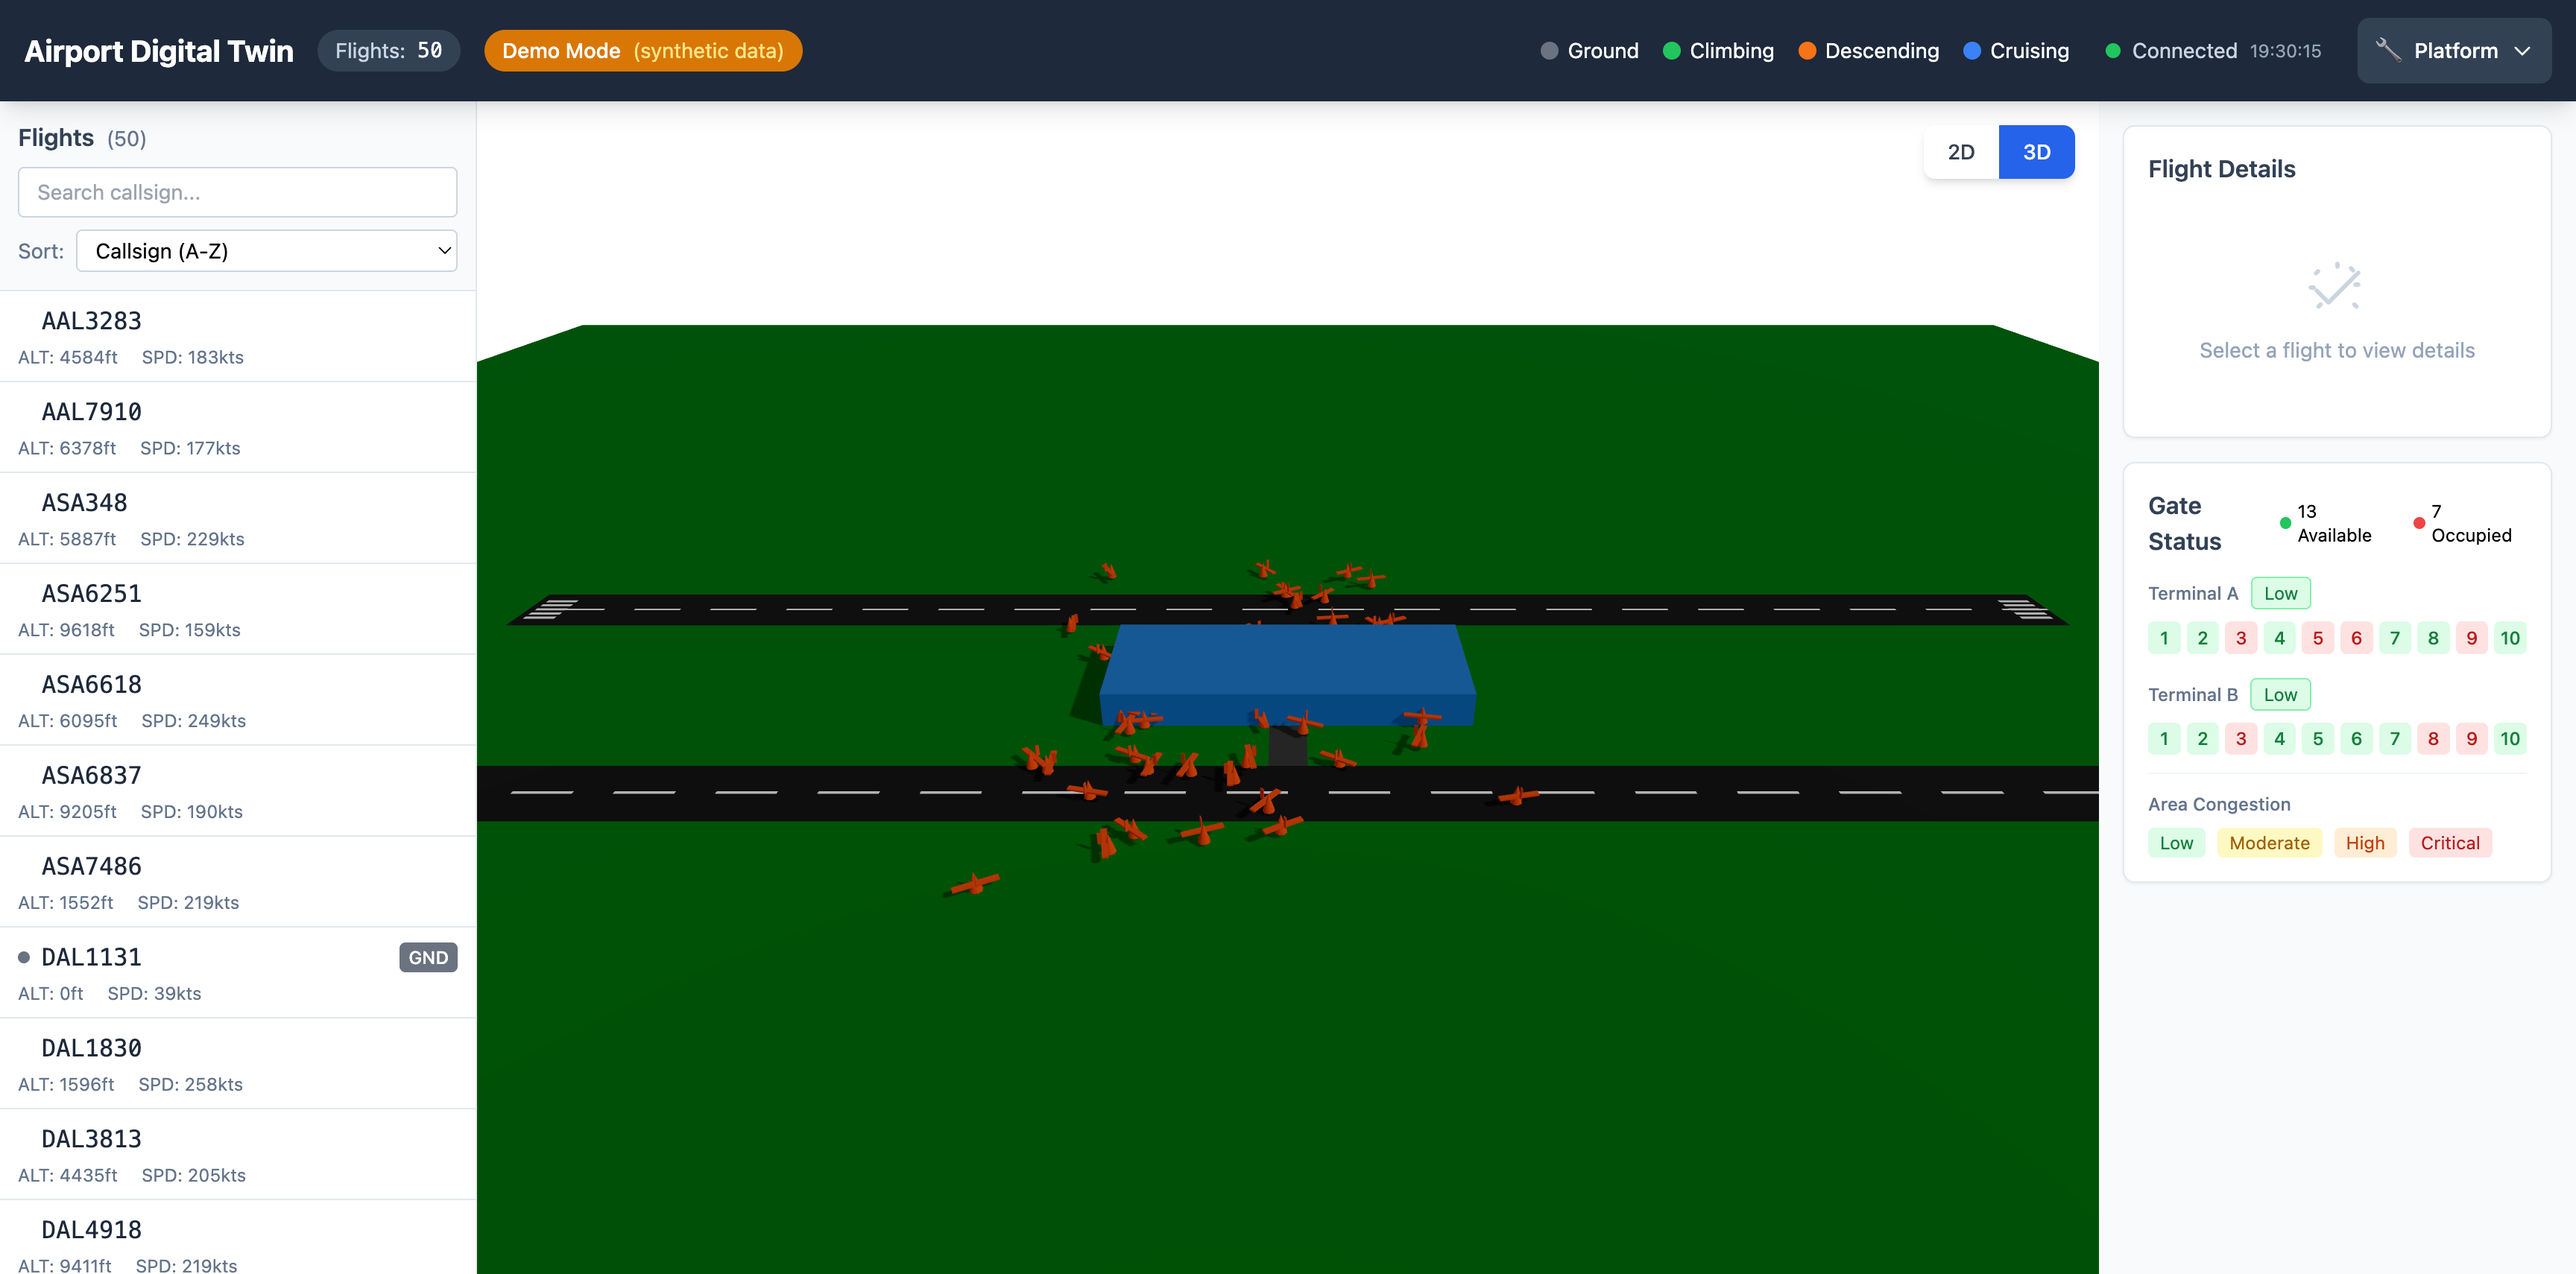
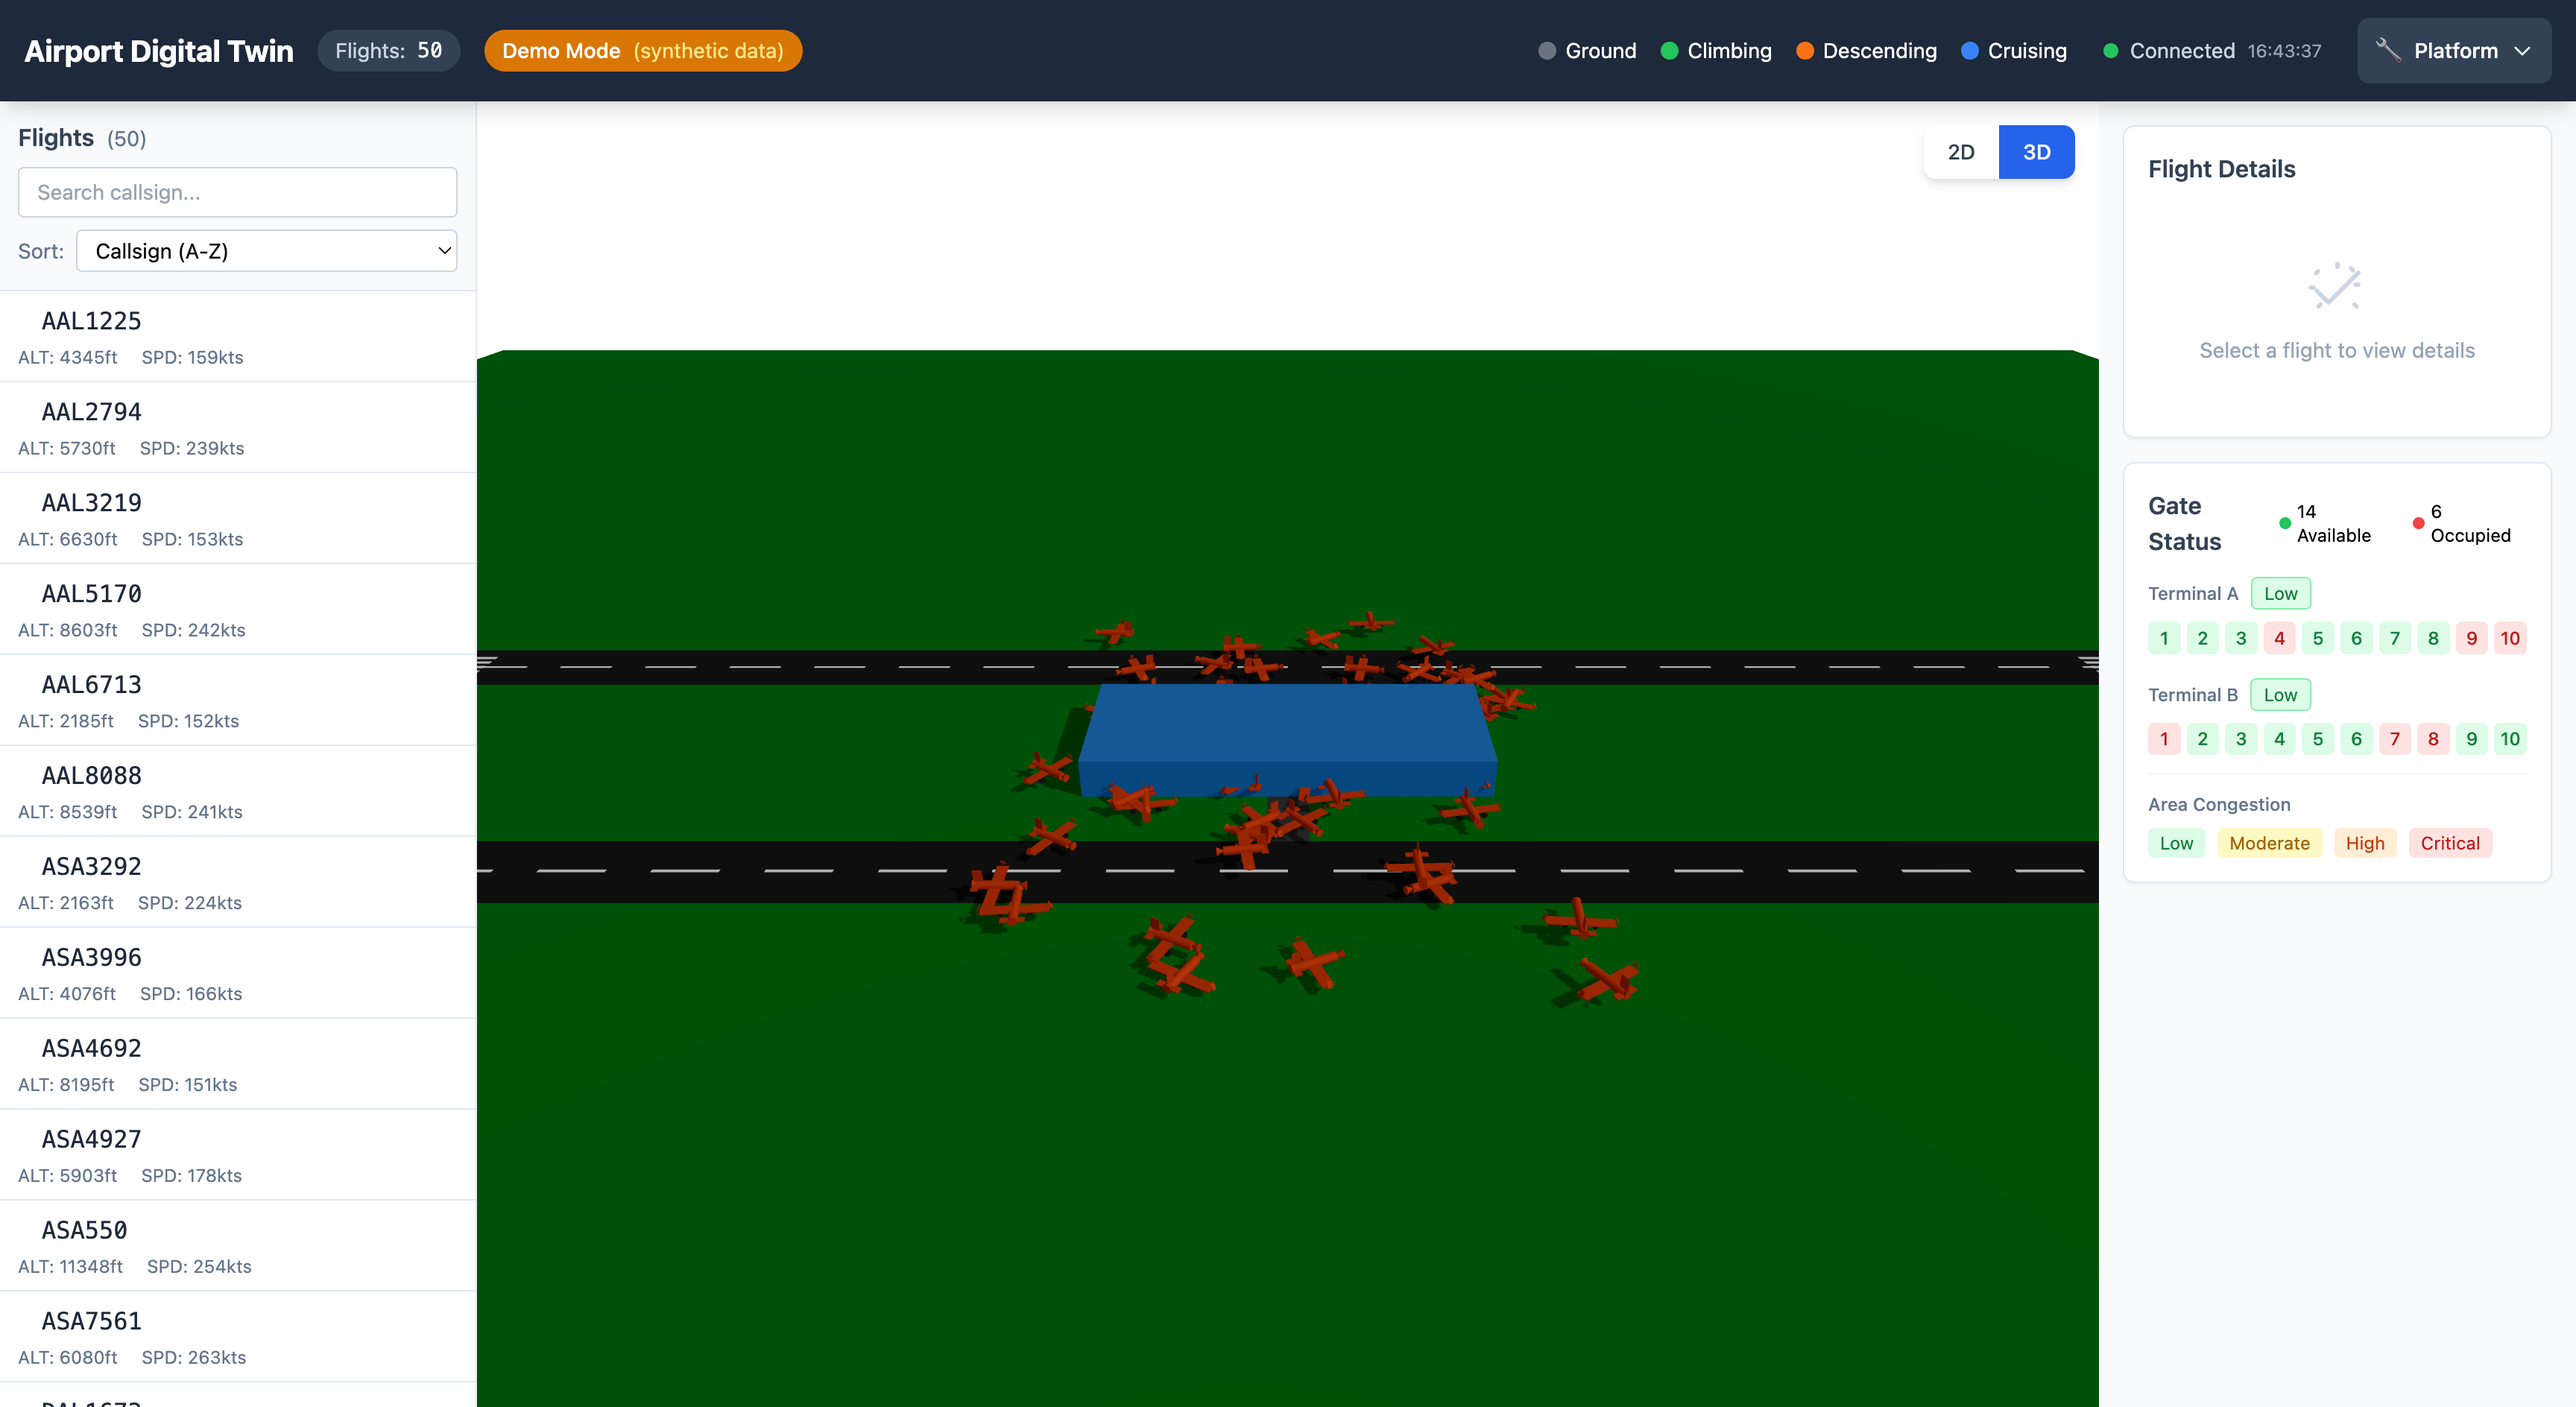
feat(3D): improve aircraft model with realistic airliner shape
- Replace simple cone/box model with detailed airliner geometry
- Add fuselage cylinder, nose cone, and tail cone
- Add swept wings with winglets
- Add horizontal and vertical stabilizers
- Add engine nacelles under wings
- Add cockpit window effect
- Apply metallic material for realistic appearance
- Update 3D view screenshot

diff --git a/app/frontend/src/components/Map3D/Aircraft3D.tsx b/app/frontend/src/components/Map3D/Aircraft3D.tsx
@@ -145,26 +145,74 @@ export function Aircraft3D({ flight, selected = false, onClick }: Aircraft3DProp
         document.body.style.cursor = 'auto';
       }}
     >
-      {/* Aircraft body - cone pointing forward */}
-      <mesh castShadow>
-        <coneGeometry args={[3, 10, 8]} />
+      {/* Aircraft fuselage - elongated cylinder */}
+      <mesh castShadow rotation={[Math.PI / 2, 0, 0]}>
+        <cylinderGeometry args={[2, 2, 18, 12]} />
         <meshStandardMaterial
           color={color}
           emissive={selected ? 0x002200 : 0x000000}
           emissiveIntensity={0.3}
+          metalness={0.3}
+          roughness={0.7}
         />
       </mesh>
 
-      {/* Wings - flat box */}
-      <mesh position={[0, 0, 2]} castShadow>
-        <boxGeometry args={[20, 1, 3]} />
-        <meshStandardMaterial color={color} />
+      {/* Nose cone */}
+      <mesh castShadow position={[0, 0, -10]} rotation={[Math.PI / 2, 0, 0]}>
+        <coneGeometry args={[2, 4, 12]} />
+        <meshStandardMaterial color={color} metalness={0.3} roughness={0.7} />
       </mesh>
 
-      {/* Tail fin */}
-      <mesh position={[0, 3, 4]} castShadow>
-        <boxGeometry args={[0.5, 6, 2]} />
-        <meshStandardMaterial color={color} />
+      {/* Tail cone */}
+      <mesh castShadow position={[0, 0.5, 8]} rotation={[-Math.PI / 2, 0, 0]}>
+        <coneGeometry args={[2, 5, 12]} />
+        <meshStandardMaterial color={color} metalness={0.3} roughness={0.7} />
+      </mesh>
+
+      {/* Main wings - swept back */}
+      <mesh position={[0, -0.5, 1]} castShadow>
+        <boxGeometry args={[28, 0.5, 5]} />
+        <meshStandardMaterial color={color} metalness={0.3} roughness={0.7} />
+      </mesh>
+
+      {/* Wing tips - angled up (winglets) */}
+      <mesh position={[14.5, 1, 1]} rotation={[0, 0, Math.PI / 6]} castShadow>
+        <boxGeometry args={[0.3, 3, 2]} />
+        <meshStandardMaterial color={color} metalness={0.3} roughness={0.7} />
+      </mesh>
+      <mesh position={[-14.5, 1, 1]} rotation={[0, 0, -Math.PI / 6]} castShadow>
+        <boxGeometry args={[0.3, 3, 2]} />
+        <meshStandardMaterial color={color} metalness={0.3} roughness={0.7} />
+      </mesh>
+
+      {/* Horizontal stabilizer (tail wings) */}
+      <mesh position={[0, 0.5, 9]} castShadow>
+        <boxGeometry args={[10, 0.3, 3]} />
+        <meshStandardMaterial color={color} metalness={0.3} roughness={0.7} />
+      </mesh>
+
+      {/* Vertical stabilizer (tail fin) */}
+      <mesh position={[0, 4, 8]} castShadow>
+        <boxGeometry args={[0.3, 7, 4]} />
+        <meshStandardMaterial color={color} metalness={0.3} roughness={0.7} />
+      </mesh>
+
+      {/* Engines - left */}
+      <mesh position={[-6, -2, 0]} rotation={[Math.PI / 2, 0, 0]} castShadow>
+        <cylinderGeometry args={[1.2, 1.5, 4, 8]} />
+        <meshStandardMaterial color={0x555555} metalness={0.5} roughness={0.5} />
+      </mesh>
+
+      {/* Engines - right */}
+      <mesh position={[6, -2, 0]} rotation={[Math.PI / 2, 0, 0]} castShadow>
+        <cylinderGeometry args={[1.2, 1.5, 4, 8]} />
+        <meshStandardMaterial color={0x555555} metalness={0.5} roughness={0.5} />
+      </mesh>
+
+      {/* Cockpit windows - dark glass effect */}
+      <mesh position={[0, 1, -8]} rotation={[Math.PI / 4, 0, 0]}>
+        <planeGeometry args={[2.5, 1.5]} />
+        <meshStandardMaterial color={0x111122} metalness={0.8} roughness={0.2} />
       </mesh>
 
       {/* Hover label with callsign */}
